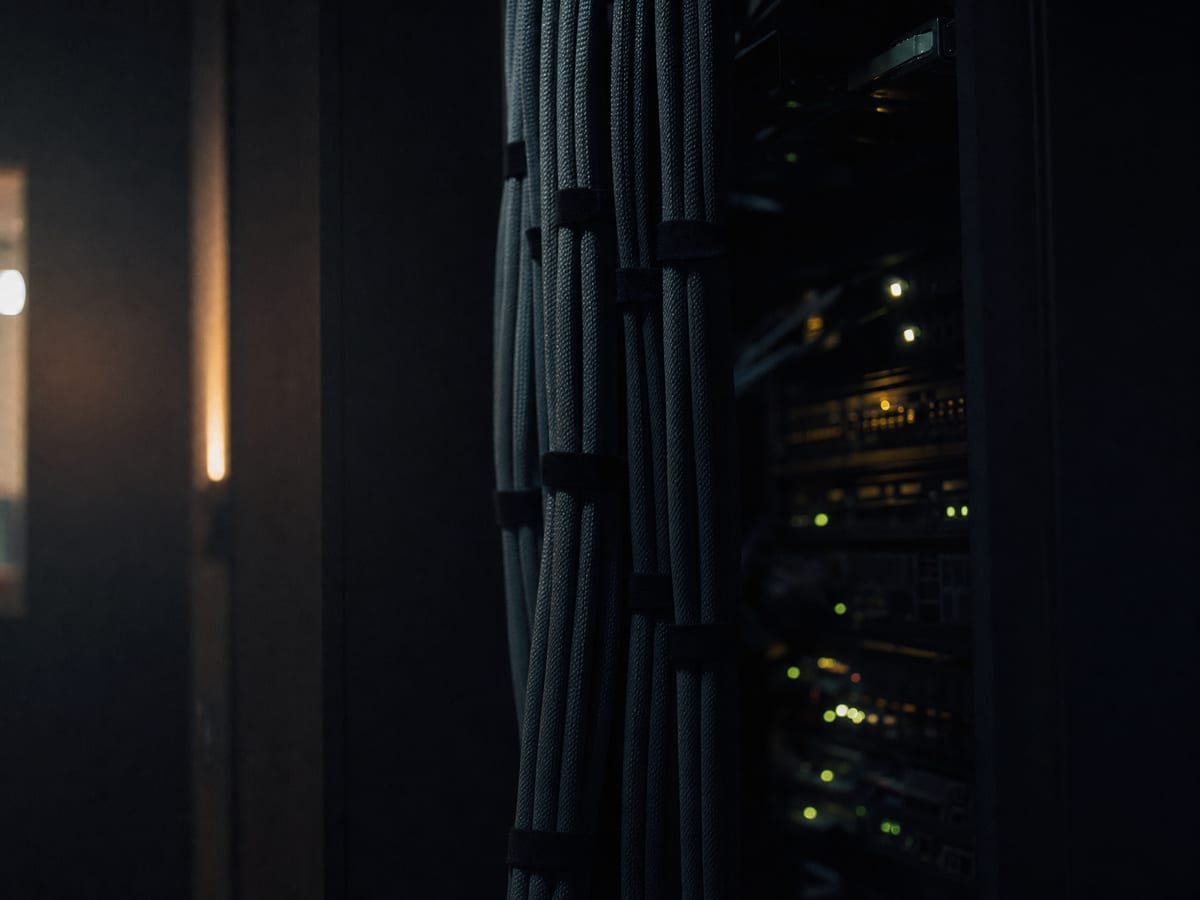
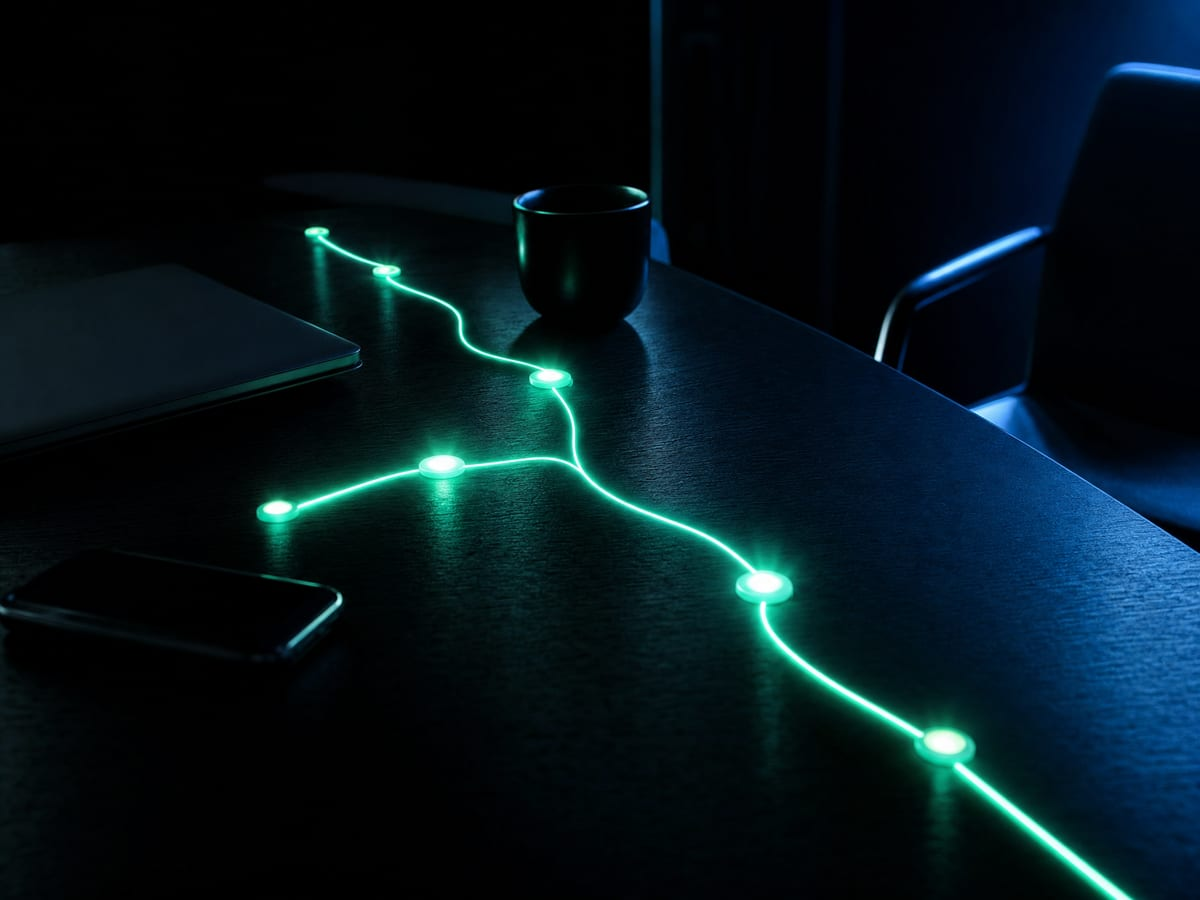
perf: fix hero LCP priority, trim font preloads, drop Sonner from first load
Measured on the live site under Slow 4G with 6x CPU throttling, then
re-measured against a production build after each change.

Hero / LCP
- The LCP element is the hero image, not the hero text: it is already
  server rendered and its reveals are plain CSS keyframes, so render
  delay measured 48 ms. What actually cost time was discovery.
- Next 16 emits the preload for `priority` but no longer sets
  fetchpriority on it or on the <img>, so Chrome started the image at
  Low and promoted it late. Its own "fetchpriority=high should be
  applied" check reported FAILED and load delay was 626-629 ms, the
  largest single slice of LCP. Set explicitly; the check now passes.
- Reveal delays cut from 0.15/0.5/0.62/0.72/1.4s to
  0.05/0.12/0.2/0.28/0.6s. With animation-fill-mode: both the element
  holds at opacity 0 until its delay elapses, and an invisible element
  is not a paint, so every delay was added straight onto LCP. Same
  choreography, roughly a third of the wait.

Fonts
- Cabinet Grotesk drops 500/700/900, leaving 800. All 19 font-display
  usages pair with font-extrabold and globals.css pins font-weight: 800,
  so those three were never rendered, but preload: true fetched them
  anyway and ~58 kB queued ahead of the hero image. 7 preloads -> 4.

Sonner
- contact.tsx imported `toast` at module scope. That component renders on
  every page view, so the whole library sat in the initial bundle for a
  message that cannot appear until a submit has already failed. Now
[…]

diff --git a/src/components/sections/hero.tsx b/src/components/sections/hero.tsx
@@ -49,6 +49,12 @@ export function Hero() {
           alt=""
           fill
           priority
+          /* Explicit on purpose. In Next 16 `priority` emits the preload link
+             but no longer sets fetchpriority on it or on the <img>, so the
+             browser started this at Low and only promoted it later. On Slow 4G
+             that was the largest single slice of the LCP: ~630 ms between the
+             document arriving and the image request even being sent. */
+          fetchPriority="high"
           sizes="100vw"
           className={cn('object-cover object-right', rtl && 'scale-x-[-1]')}
         />
@@ -81,16 +87,23 @@ export function Hero() {
       />
 
       <div className="shell relative flex min-h-[92svh] flex-col justify-end pb-20 pt-32 sm:pb-24">
+        {/* The stagger below is the same choreography at roughly a third of
+            the wait. Every one of these delays is added straight onto LCP:
+            with `animation-fill-mode: both` the element sits at opacity 0
+            until its delay elapses, and Chrome does not count an invisible
+            element as painted. On a mid-range phone the old 0.5 s on the
+            subtext, plus the time the main thread needed before the
+            animation could start at all, was the reported render delay. */}
         <RevealLines
           as="h1"
           lines={t.hero.headline}
-          delay={0.15}
+          delay={0.05}
           className="max-w-[16ch] text-4xl"
         />
 
         <p
           className="reveal-fade-up measure mt-6 text-lg text-ink-muted"
-          style={{ animationDelay: '0.5s' }}
+          style={{ animationDelay: '0.12s' }}
         >
           {t.hero.subtextLead}{' '}
           <span className="text-ink">{t.hero.subtextEmphasis}</span>
@@ -98,7 +111,7 @@ export function Hero() {
 
         <div
           className="reveal-fade-up mt-8 flex flex-col items-stretch gap-3 sm:flex-row sm:items-center"
-          style={{ animationDelay: '0.62s' }}
+          style={{ animationDelay: '0.2s' }}
         >
           <ButtonLink
             href={waHref}
@@ -118,7 +131,7 @@ export function Hero() {
             interrupting the type block between subtext and buttons. */}
         <div
           className="reveal-fade-up mt-7 flex flex-wrap items-center gap-x-5 gap-y-3"
-          style={{ animationDelay: '0.72s' }}
+          style={{ animationDelay: '0.28s' }}
         >
           {/* A 5.0 Google rating is a factual claim about a public profile.
               Shown only once the reviews behind it exist. */}
@@ -136,7 +149,7 @@ export function Hero() {
       <a
         href="#leistungen"
         aria-label={t.hero.scrollLabel}
-        style={{ animationDelay: '1.4s' }}
+        style={{ animationDelay: '0.6s' }}
         className="reveal-fade-up absolute bottom-7 end-[max(1.25rem,5vw)] hidden h-10 w-10 place-items-center rounded-full border border-line-strong text-ink-muted transition-colors duration-200 hover:border-accent hover:text-accent sm:grid"
       >
         <ArrowDown size={15} weight="bold" />

diff --git a/src/components/deferred-toaster.tsx b/src/components/deferred-toaster.tsx
@@ -1,0 +1,67 @@
+'use client'
+
+import { useEffect, useState } from 'react'
+import dynamic from 'next/dynamic'
+
+/**
+ * The toast host, loaded only once the visitor has done something.
+ *
+ * Sonner is 35 kB and the only thing that calls it is the contact form's
+ * error path. Mounted in the document shell it shipped and hydrated with
+ * every first paint of every page, for a message that cannot appear until
+ * someone has filled in a form. That was a measurable slice of the blocking
+ * time on a mid-range phone, spent on a component with nothing to show.
+ *
+ * `ssr: false` is safe here because Sonner renders nothing on the server
+ * anyway: its portal is empty until a toast exists. The arming events are
+ * the ones a visitor necessarily produces before they can ever submit the
+ * form, so by the time a toast could fire the chunk is already resident.
+ * Deliberately no idle fallback: a visitor who never interacts never needs
+ * a toast, and a speculative load during Lighthouse's window would only
+ * add a task to the trace for nothing.
+ */
+const Toaster = dynamic(() => import('sonner').then((mod) => mod.Toaster), {
+  ssr: false,
+})
+
+const ARM_EVENTS = ['pointerdown', 'keydown', 'touchstart', 'focusin', 'scroll'] as const
+
+export function DeferredToaster() {
+  const [armed, setArmed] = useState(false)
+
+  useEffect(() => {
+    const arm = () => {
+      setArmed(true)
+      for (const event of ARM_EVENTS) window.removeEventListener(event, arm)
+    }
+    for (const event of ARM_EVENTS) {
+      window.addEventListener(event, arm, { passive: true, once: true })
+    }
+    return () => {
+      for (const event of ARM_EVENTS) window.removeEventListener(event, arm)
+    }
+  }, [])
+
+  if (!armed) return null
+
+  return (
+    <Toaster
+      /* Follows the document theme instead of pinning to dark. */
+      theme="system"
+      position="top-right"
+      offset={{ top: '84px' }}
+      toastOptions={{
+        classNames: {
+          toast: '!rounded-lg !border !border-line-strong !bg-card !text-ink !shadow-lg',
+          title: '!text-ink',
+          description: '!text-ink-muted',
+          actionButton: '!bg-accent !text-accent-ink',
+          cancelButton: '!bg-fill-soft !text-ink-muted',
+          error: '!border-negative/40',
+          success: '!border-positive/40',
+          closeButton: '!bg-card !border-line-strong !text-ink-muted',
+        },
+      }}
+    />
+  )
+}

diff --git a/src/components/sections/contact.tsx b/src/components/sections/contact.tsx
@@ -2,7 +2,6 @@
 
 import { useEffect, useRef, useState } from 'react'
 import { AnimatePresence, motion, useReducedMotion } from 'motion/react'
-import { toast } from 'sonner'
 import {
   CheckCircle,
   CircleNotch,
@@ -21,6 +20,24 @@ import { describeAttribution, readAttribution } from '@/lib/attribution'
 
 const EASE = [0.23, 1, 0.32, 1] as const
 const waHref = buildWhatsAppLink()
+
+/**
+ * Raises an error toast, reaching Sonner through a call-time import.
+ *
+ * Never `import { toast } from 'sonner'` at module scope. This component
+ * renders on every page view, so a static import pulled the whole 35 kB
+ * library into the initial bundle for a message that cannot appear until a
+ * submit has already failed. Deferring only the `<Toaster>` host does not
+ * help: this one import keeps the library resident, and the deferred host
+ * then loads a second copy of it.
+ *
+ * The await costs nothing in practice: by the time a submit can fail, the
+ * visitor has typed into the form, which already armed the toast host.
+ */
+async function notifyError(message: string) {
+  const { toast } = await import('sonner')
+  toast.error(message)
+}
 
 const trustIcons = {
   mail: EnvelopeSimple,
@@ -115,7 +132,7 @@ export function Contact() {
 
     setErrors(next)
     if (Object.values(next).some(Boolean)) {
-      toast.error(t.contact.toastInvalid)
+      void notifyError(t.contact.toastInvalid)
       focusFirstInvalid(next)
       return
     }
@@ -149,17 +166,17 @@ export function Contact() {
           setErrors(body.fields)
           focusFirstInvalid(body.fields)
         }
-        toast.error(t.contact.toastInvalid)
+        void notifyError(t.contact.toastInvalid)
         return
       }
       if (res.status === 429) {
-        toast.error(t.contact.toastRateLimited)
+        void notifyError(t.contact.toastRateLimited)
         return
       }
       if (!res.ok) throw new Error('request failed')
       setSent(true)
     } catch {
-      toast.error(t.contact.toastFailed)
+      void notifyError(t.contact.toastFailed)
     } finally {
       setPending(false)
     }

diff --git a/src/components/html-shell.tsx b/src/components/html-shell.tsx
@@ -1,5 +1,5 @@
-import { Toaster } from 'sonner'
 import { cabinet, satoshi } from '@/app/fonts'
+import { DeferredToaster } from '@/components/deferred-toaster'
 import { ThemeScript } from '@/components/theme-script'
 
 /**
@@ -57,24 +57,9 @@ export function HtmlShell({
         </a>
         {children}
         <div className="grain" aria-hidden="true" />
-        <Toaster
-          /* Follows the document theme instead of pinning to dark. */
-          theme="system"
-          position="top-right"
-          offset={{ top: '84px' }}
-          toastOptions={{
-            classNames: {
-              toast: '!rounded-lg !border !border-line-strong !bg-card !text-ink !shadow-lg',
-              title: '!text-ink',
-              description: '!text-ink-muted',
-              actionButton: '!bg-accent !text-accent-ink',
-              cancelButton: '!bg-fill-soft !text-ink-muted',
-              error: '!border-negative/40',
-              success: '!border-positive/40',
-              closeButton: '!bg-card !border-line-strong !text-ink-muted',
-            },
-          }}
-        />
+        {/* Loads Sonner only after the first interaction. Nothing on the site
+            can raise a toast before then, so the 35 kB stays out of first paint. */}
+        <DeferredToaster />
       </body>
     </html>
   )

diff --git a/src/app/[locale]/page.tsx b/src/app/[locale]/page.tsx
@@ -1,4 +1,9 @@
 import { DEFAULT_LOCALE, isLocale, type Locale } from '@/content/dictionary'
+import {
+  figuresAreVerified,
+  projectsAreVerified,
+  reviewsAreVerified,
+} from '@/content/site'
 import { SiteHeader } from '@/components/site-header'
 import { SiteFooter } from '@/components/site-footer'
 import { Hero } from '@/components/sections/hero'
@@ -43,8 +48,13 @@ export default async function LandingPage({
         <Services />
         <Showcase />
         <Process />
-        <Results />
-        <Reviews />
+        {/* Decided on the server, not inside the components. Both return null
+            while their content is unverified, but a client component that
+            renders null still has to be shipped and hydrated. Gating here
+            keeps two client modules and their Motion usage out of the initial
+            work entirely until the flags in site.ts flip. */}
+        {(figuresAreVerified || projectsAreVerified) && <Results />}
+        {reviewsAreVerified && <Reviews />}
         <Calculator />
         <Pricing />
         <Faq />

diff --git a/src/app/fonts.ts b/src/app/fonts.ts
@@ -1,12 +1,18 @@
 import localFont from 'next/font/local'
 
-/** Display voice. Self-hosted from Fontshare. */
+/**
+ * Display voice. Self-hosted from Fontshare.
+ *
+ * One weight only. Every `font-display` usage on the site pairs with
+ * `font-extrabold` (800), and `font-black` appears nowhere, so 500/700/900
+ * were never rendered. They were not free: `preload: true` preloads every
+ * declared file, and on Slow 4G those three (~58 kB) queued ahead of the
+ * hero image and pushed its request back. Add a weight here only together
+ * with a class that actually uses it.
+ */
 export const cabinet = localFont({
   src: [
-    { path: './fonts/cabinet-grotesk-500.woff2', weight: '500', style: 'normal' },
-    { path: './fonts/cabinet-grotesk-700.woff2', weight: '700', style: 'normal' },
     { path: './fonts/cabinet-grotesk-800.woff2', weight: '800', style: 'normal' },
-    { path: './fonts/cabinet-grotesk-900.woff2', weight: '900', style: 'normal' },
   ],
   variable: '--font-cabinet',
   display: 'swap',

diff --git a/src/components/sections/showcase.tsx b/src/components/sections/showcase.tsx
@@ -46,12 +46,15 @@ function DeviceFrame({ device }: { device: DeviceId }) {
         className="relative overflow-hidden rounded-lg"
         style={{ aspectRatio: `${config.frameWidth} / ${config.frameHeight}` }}
       >
+        {/* Its own flat interface render, not the Web Development card's photo.
+            That one shows a laptop on a desk, and a laptop sitting inside this
+            section's browser chrome reads as a screen within a screen. */}
         <Image
-          src="/media/service-web.jpg"
+          src="/media/showcase.jpg"
           alt=""
           fill
           sizes="(min-width: 1024px) 40vw, 90vw"
-          className="object-cover"
+          className="object-cover object-top"
         />
       </div>
     </div>
